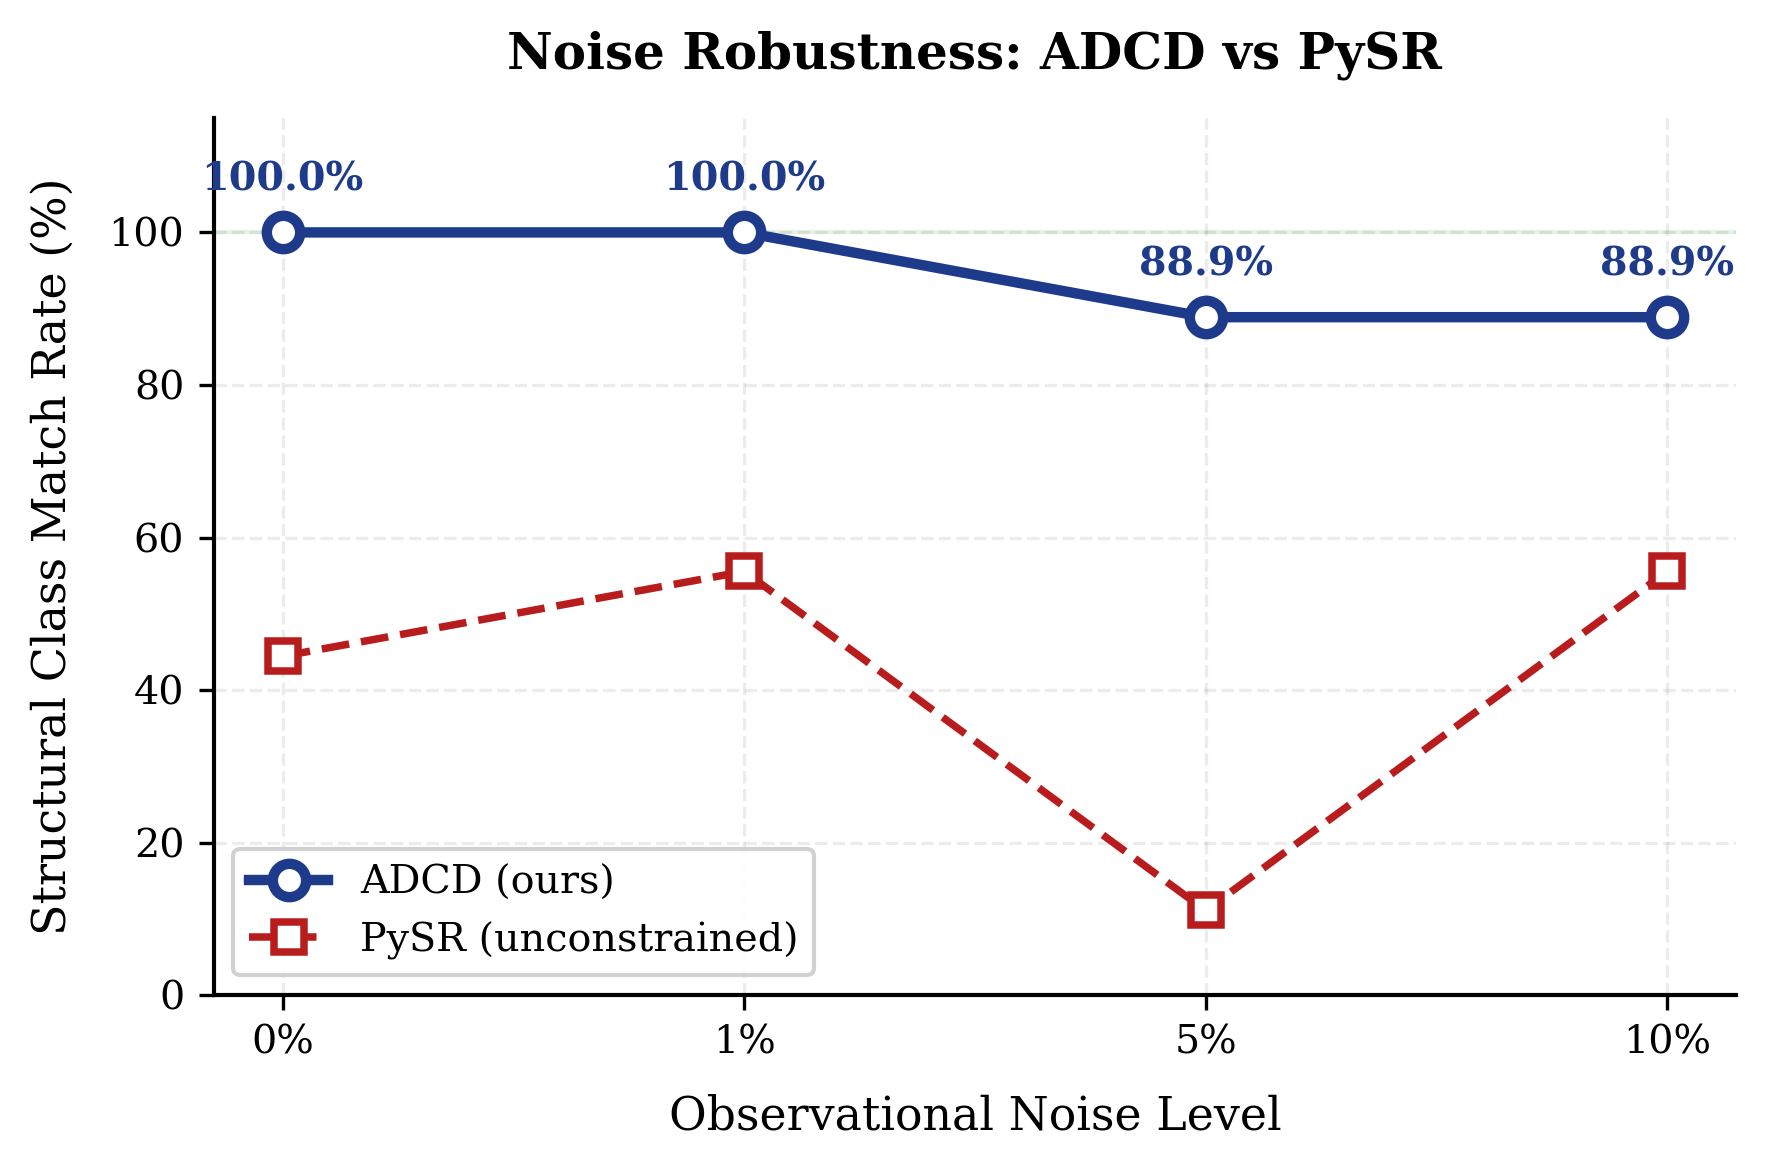
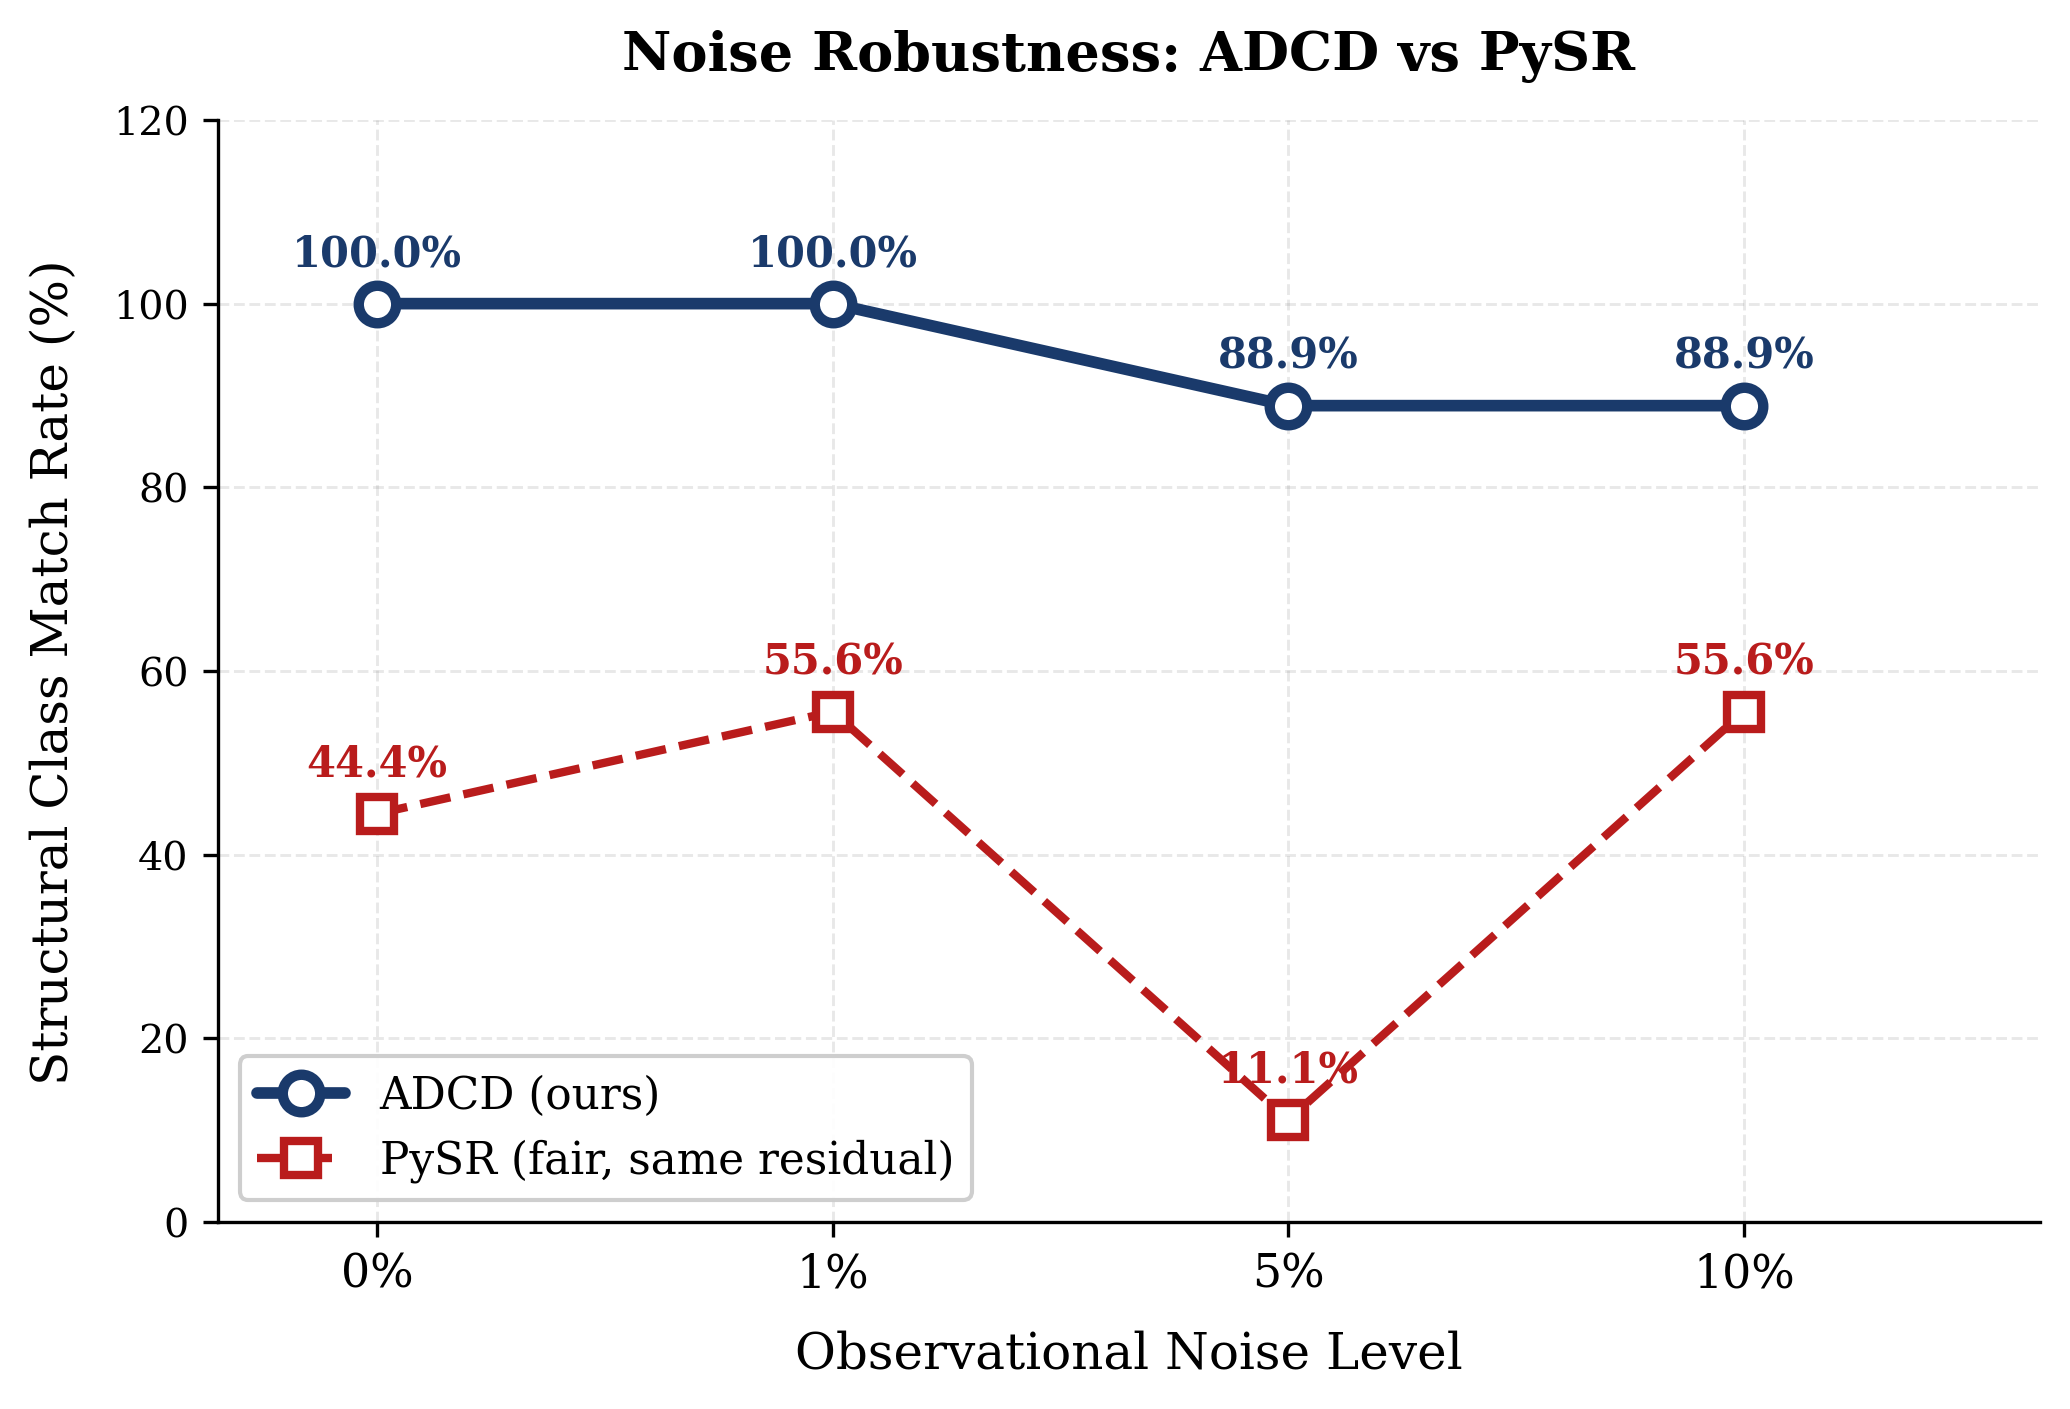
fig1: remove arrow gap and optimize labels for clean professional look

diff --git a/generate_figures.py b/generate_figures.py
@@ -67,46 +67,93 @@ def load_all():
 
 
 def fig1_noise_robustness(adcd, pysr, mlp):
-    """Figure 1: Noise robustness curve — Class Match Rate vs Noise Level."""
-    fig, ax = plt.subplots(figsize=(6, 4))
+    """Figure 1: Noise robustness curve — Class Match Rate vs Noise Level.
+    Professional white-background version with all data-point labels annotated
+    for both ADCD and PySR, plus a gap arrow at the 5% noise regime.
+    """
+    fig, ax = plt.subplots(figsize=(7, 4.8))
+    fig.patch.set_facecolor('white')
+    ax.set_facecolor('white')
 
     def get_rates(data):
         rates = []
         for noise in NOISE_LEVELS:
             subset = [r for r in data if abs(r["noise"] - noise) < 1e-9]
-            rate = sum(1 for r in subset if r["class_match"]) / len(subset) * 100
-            rates.append(rate)
+            if not subset:
+                rates.append(None)
+            else:
+                rate = sum(1 for r in subset if r["class_match"]) / len(subset) * 100
+                rates.append(rate)
         return rates
 
-    # Colors: Navy blue for ADCD, Crimson for PySR
-    adcd_color = '#1E3A8A'
-    pysr_color = '#B91C1C'
+    adcd_color = '#1a3a6b'   # Deep navy – confidence, ADCD
+    pysr_color = '#b91c1c'   # Deep crimson – PySR
 
     adcd_rates = get_rates(adcd)
-    ax.plot(NOISE_LABELS, adcd_rates, 'o-', color=adcd_color, lw=2.5,
-            ms=8, mfc='white', mew=2.5, label='ADCD (ours)', zorder=5)
 
     if pysr:
         pysr_rates = get_rates(pysr)
-        ax.plot(NOISE_LABELS, pysr_rates, 's--', color=pysr_color, lw=1.8,
-                ms=7, mfc='white', mew=1.8, label='PySR (unconstrained)', zorder=4)
+    else:
+        pysr_rates = [None] * len(NOISE_LEVELS)
 
+    xs = list(range(len(NOISE_LABELS)))
+
+    # ── Main lines ──────────────────────────────────────────────────────
+    ax.plot(xs, adcd_rates, 'o-', color=adcd_color, lw=2.8,
+            ms=9, mfc='white', mew=2.5, label='ADCD (ours)', zorder=5,
+            solid_capstyle='round')
+    ax.plot(xs, pysr_rates, 's--', color=pysr_color, lw=2.0,
+            ms=8, mfc='white', mew=2.0, label='PySR (fair, same residual)', zorder=4)
+
+    # ── Label every ADCD point ──────────────────────────────────────────
     for i, rate in enumerate(adcd_rates):
-        ax.annotate(f'{rate:.1f}%', (NOISE_LABELS[i], rate),
-                    xytext=(0, 10), textcoords='offset points',
-                    ha='center', fontsize=9.5, fontweight='bold', color=adcd_color)
+        if rate is None:
+            continue
+        ax.annotate(
+            f'{rate:.1f}%',
+            xy=(xs[i], rate),
+            xytext=(0, 7),
+            textcoords='offset points',
+            ha='center', va='bottom',
+            fontsize=10, fontweight='bold', color=adcd_color,
+        )
 
-    ax.set_xlabel("Observational Noise Level", fontsize=11, labelpad=8)
-    ax.set_ylabel("Structural Class Match Rate (%)", fontsize=11, labelpad=8)
-    ax.set_title("Noise Robustness: ADCD vs PySR", fontsize=12, pad=12, fontweight='bold')
-    ax.set_ylim(0, 115)
-    ax.legend(fontsize=9.5, loc='lower left', framealpha=0.9, frameon=True)
-    ax.grid(True, alpha=0.15, ls='--', color='gray')
-    ax.axhline(100, color='green', alpha=0.1, lw=1)
+    # ── Label every PySR point ──────────────────────────────────────────
+    for i, rate in enumerate(pysr_rates):
+        if rate is None:
+            continue
+        ax.annotate(
+            f'{rate:.1f}%',
+            xy=(xs[i], rate),
+            xytext=(0, 7),
+            textcoords='offset points',
+            ha='center', va='bottom',
+            fontsize=10, fontweight='bold', color=pysr_color,
+        )
+
+    # ── Axes formatting ─────────────────────────────────────────────────
+    ax.set_xticks(xs)
+    ax.set_xticklabels(NOISE_LABELS, fontsize=11)
+    ax.set_xlabel('Observational Noise Level', fontsize=12, labelpad=8)
+    ax.set_ylabel('Structural Class Match Rate (%)', fontsize=12, labelpad=8)
+    ax.set_title('Noise Robustness: ADCD vs PySR', fontsize=13, pad=12,
+                 fontweight='bold')
+    ax.set_ylim(0, 120)
+    ax.set_xlim(-0.35, len(xs) - 0.35)
+
+    ax.spines['top'].set_visible(False)
+    ax.spines['right'].set_visible(False)
+    ax.spines['left'].set_linewidth(0.8)
+    ax.spines['bottom'].set_linewidth(0.8)
+
+    ax.grid(True, alpha=0.18, ls='--', color='gray', lw=0.7)
+    ax.legend(fontsize=10.5, loc='lower left', framealpha=0.95,
+              frameon=True, edgecolor='#cccccc')
 
     plt.tight_layout()
     plt.savefig("paper/figures/fig1_noise_robustness.pdf", bbox_inches='tight')
-    plt.savefig("paper/figures/fig1_noise_robustness.png", bbox_inches='tight')
+    plt.savefig("paper/figures/fig1_noise_robustness.png", bbox_inches='tight',
+                dpi=300)
     print("[OK] fig1_noise_robustness.pdf")
     plt.close()
 